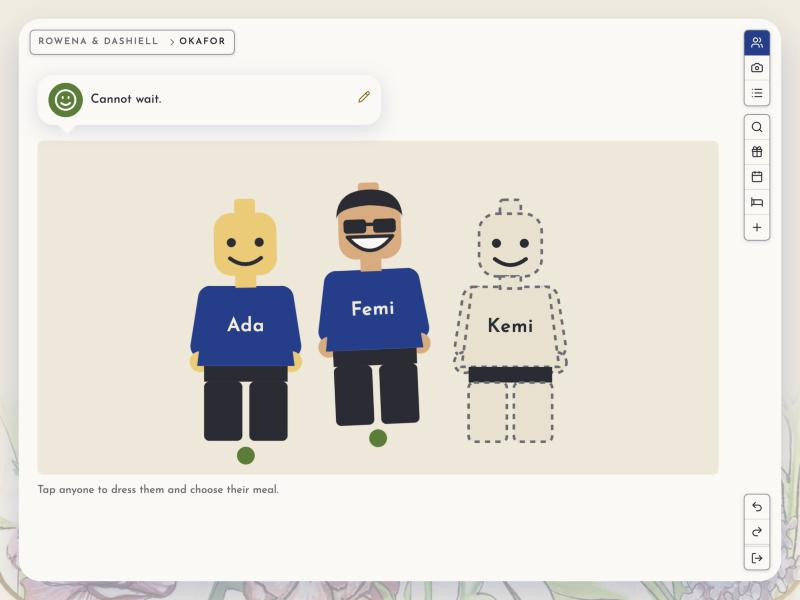
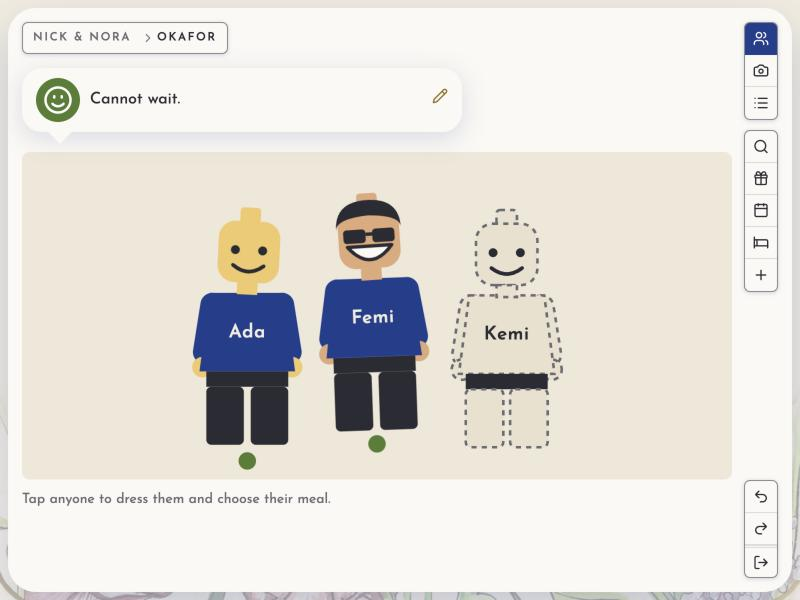
chore(wedding): the couple are Nick and Nora, from The Thin Man; their code is NICK

diff --git a/examples/wedding/server.test.ts b/examples/wedding/server.test.ts
@@ -103,7 +103,7 @@ describe("routes", () => {
     tab.close();
 
     const couple = `session_id=${crypto.randomUUID()}`;
-    const ws = await enter("DASH", couple);
+    const ws = await enter("NICK", couple);
     expect((await post(couple, "not a form")).status).toBe(400);
     const noFile = new FormData();
     noFile.set("file", new File(["hello"], "hello.txt", { type: "text/plain" }));
@@ -135,7 +135,7 @@ describe("the welcome", () => {
     const ws = connect();
     await opened(ws);
     const { page } = await heard(ws);
-    expect(page).toContain("Rowena");
+    expect(page).toContain("Nick");
     expect(page).toContain('data-write=\'{"doc":"session","op":"replace","path":"/code"}\'');
     expect(page).toContain('class="site at-welcome"');
     ws.close();
@@ -181,7 +181,7 @@ describe("a household", () => {
   test("a write is told to the household's tabs and the couple's; another household hears what everyone may, never the household's own", async () => {
     const mine = await enter(code);
     const other = await enter(code); // a second tab, same household
-    const couple = await enter("DASH");
+    const couple = await enter("NICK");
     const stranger = await enter("OKAFOR");
     await at(stranger, "everyone"); // another household sees this one only in the photo of everyone
 
@@ -333,7 +333,7 @@ describe("a household", () => {
     ws.close();
 
     // a household nobody is named on yet: the photo says so
-    const couple = await enter("DASH");
+    const couple = await enter("NICK");
     const nobody = `empty-${Date.now()}@example.com`;
     await send(couple, "board", [{ op: "add", path: "/households/-", value: nobody }]);
     const empty = await enter((await board()).households.find((x) => x.email === nobody)!.code);
@@ -460,8 +460,8 @@ describe("a household", () => {
     const list = await enter(code);
     const everyone = await enter("OKAFOR");
     const elsewhere = await enter("OKAFOR");
-    const couple = await enter("DASH");
-    const family = await enter("DASH");
+    const couple = await enter("NICK");
+    const family = await enter("NICK");
     const welcome = connect(); // no code yet
     await opened(welcome);
     await heard(welcome);
@@ -516,7 +516,7 @@ describe("a household", () => {
 
 describe("the couple", () => {
   test("the couple's code opens the photo of families; a family, the welcome, the four lists and a row of each are drawers; a new one is named in place; a removal asks first, then goes back to its list", async () => {
-    const ws = await enter("DASH");
+    const ws = await enter("NICK");
     expect(pageOf(ws)).toContain('class="bubble couple thing"'); // the welcome, over the photo
     expect(pageOf(ws)).toContain('id="board-photo" data-applet="photo"');
     // the welcome is a "thing": ✎ opens its own drawer, where its picture lives
@@ -572,7 +572,7 @@ describe("the couple", () => {
   });
 
   test("the venues are a page nobody wrote, drawn from their shape: a row each, its drawer, a new one asked for in a modal; a removal asks first, then goes back to the page", async () => {
-    const ws = await enter("DASH");
+    const ws = await enter("NICK");
     expect(pageOf(ws)).toContain(`aria-label="Venues" data-write='{"doc":"session","op":"replace","path":"/page"}' data-value="venues"`); // a tool on the couple's rail
     let html = await at(ws, "venues?row=1");
     expect(html).toContain(`<span class="what">The Mount Without</span>`);
@@ -590,7 +590,7 @@ describe("the couple", () => {
   });
 
   test("the lists are the couple's to keep: a move renumbers, a field takes its kind, a course taken off takes its choices with it", async () => {
-    const ws = await enter("DASH");
+    const ws = await enter("NICK");
     const names = async () => (await board()).courses.map((c) => c.name);
     const before = await names();
     await send(ws, "board", [{ op: "replace", path: "/courses/4/seq", value: 1 }]);
@@ -634,7 +634,7 @@ describe("the couple", () => {
     // two households this test alone owns, so the asks it adds disturb no one else's
     const stamp = Date.now();
     for (const who of ["findme", "other"]) await asCouple([{ op: "add", path: "/households/-", value: { email: `${who}-${stamp}@example.com`, names: `${who} ${stamp}` } }]);
-    const ws = await enter("DASH");
+    const ws = await enter("NICK");
     const households = (await board()).households;
     const matching = households.find((h) => h.email === `findme-${stamp}@example.com`)!;
     const other = households.find((h) => h.email === `other-${stamp}@example.com`)!;
@@ -669,7 +669,7 @@ describe("the couple", () => {
   });
 
   test("a family's drawer: whether each guest is coming and what they chose, and whoever they asked for -- waiting, with the couple's yes or no, or refused; their figures ring in the photo", async () => {
-    const ws = await enter("DASH");
+    const ws = await enter("NICK");
     // under the family's code, a surname they share is said once in each list
     const okafors = await at(ws, `?family=${(await board()).households.find((h) => h.code === "OKAFOR")!.id}`);
     expect(okafors).toContain('<span class="what">Ada</span>');
@@ -695,7 +695,7 @@ describe("the couple", () => {
   });
 
   test("beyond sixteen in the photo, everyone sees the families, one figure each with its count, and a family opens", async () => {
-    const couple = await enter("DASH");
+    const couple = await enter("NICK");
     const email = `crowd-${Date.now()}@example.com`;
     const names = Array.from({ length: 17 }, (_, i) => `Guest${i}`).join(",");
     await send(couple, "board", [{ op: "add", path: "/households/-", value: { email, names } }]);
@@ -723,7 +723,7 @@ describe("the couple", () => {
   });
 
   test("a yes to an ask makes a guest the household sees; the couple's undo takes it back; a household may not reply", async () => {
-    const couple = await enter("DASH");
+    const couple = await enter("NICK");
     const tab = await enter(code);
     await send(tab, "household", [{ op: "add", path: "/asks/-", value: "Friend" }]);
     expect((await heard(couple)).page).toMatch(/\d+ asks? waiting/);
@@ -745,7 +745,7 @@ describe("the couple", () => {
   });
 
   test("an invitation, and its undo, through the wire", async () => {
-    const ws = await enter("DASH");
+    const ws = await enter("NICK");
     const email = `wire-${Date.now()}@example.com`;
     await send(ws, "board", [{ op: "add", path: "/households/-", value: { email, names: "Wire Test", plus_ones: "0" } }]);
     const invited = (await board()).households.find((h) => h.email === email)!;
@@ -758,7 +758,7 @@ describe("the couple", () => {
   });
 
   test("a household's tab whose code stops existing is back at the welcome", async () => {
-    const couple = await enter("DASH");
+    const couple = await enter("NICK");
     const email = `gone-${Date.now()}@example.com`;
     await send(couple, "board", [{ op: "add", path: "/households/-", value: email }]);
     const gone = (await board()).households.find((h) => h.email === email)!;
@@ -858,7 +858,7 @@ describe("undo beside someone else", () => {
 
 describe("the couple keep a family's invitation", () => {
   test("taking a guest off asks first, and goes back to the family's drawer; the email is edited in place", async () => {
-    const ws = await enter("DASH");
+    const ws = await enter("NICK");
     const email = `takeoff-${Date.now()}@example.com`;
     await asCouple([{ op: "add", path: "/households/-", value: { email, names: "Tak Test, Tik Test" } }]);
     const h = (await board()).households.find((x) => x.email === email)!;
@@ -917,7 +917,7 @@ describe("a permit allows what a page offers, and nothing more", () => {
   ];
 
   test("the couple may write what their page offers, and a household none of it", async () => {
-    const couple = await as("DASH");
+    const couple = await as("NICK");
     const ben = await as(code);
     for (const w of COUPLE) expect([w, couple.may("board", w)]).toEqual([w, true]);
     for (const w of COUPLE) expect([w, ben.may("board", w)]).toEqual([w, false]);
@@ -927,7 +927,7 @@ describe("a permit allows what a page offers, and nothing more", () => {
 
   test("a household may write what its page offers, and the couple none of it", async () => {
     const household = await as(code);
-    const couple = await as("DASH");
+    const couple = await as("NICK");
     for (const w of HOUSEHOLD) expect([w, household.may("household", w)]).toEqual([w, true]);
     for (const w of HOUSEHOLD) expect([w, couple.may("household", w)]).toEqual([w, false]);
     household.ws.close();
@@ -935,7 +935,7 @@ describe("a permit allows what a page offers, and nothing more", () => {
   });
 
   test("nobody may remove a field, a row's parent or a dish's order, take back a reply, or uninvite their own guest", async () => {
-    const couple = await as("DASH");
+    const couple = await as("NICK");
     const household = await as(code);
     const fields = COUPLE.filter(([op, path]) => op === "replace" && !path.endsWith("/seq")).map(([, path]): W => ["remove", path]);
     for (const w of [...fields, ...each("replace", "/courses/1/weddings_id", "/gifts/1/weddings_id", "/events/1/weddings_id", "/places/1/weddings_id", "/venues/1/weddings_id", "/courses/1/dishes/1/courses_id", "/courses/1/dishes/1/seq", "/courses/1/drinks/1/seq", "/gifts/1/nope")]) {
@@ -979,7 +979,7 @@ describe("a permit allows what a page offers, and nothing more", () => {
   test("a visit's moves are its own: going somewhere and finding someone tell no other tab, the household's own or anyone's", async () => {
     const mine = await enter(code);
     const theirs = await enter(code);
-    const couple = await enter("DASH");
+    const couple = await enter("NICK");
     await go(mine, [{ op: "replace", path: "/page", value: "?gifts" }]);
     await go(mine, [{ op: "replace", path: "/filter/guests", value: "Tess" }]);
     for (const ws of [theirs, couple]) expect(await heard(ws)).toMatchObject({ patches: [], renders: [] });

diff --git a/examples/wedding/client/app.test.ts b/examples/wedding/client/app.test.ts
@@ -203,7 +203,7 @@ describe("the wedding in a real browser", () => {
     await waitFor(view, `document.querySelector('#code') !== null`, (v) => v === true);
     await view.scrollTo("#code");
     await view.click("#code");
-    await view.type("DASH");
+    await view.type("NICK");
     await view.click("button.gold");
     await waitFor(view, `document.querySelector('#board-photo svg .slot[role="button"]') !== null`, (v) => v === true);
     // a figure never stands still, so the tap is where it stands now
@@ -276,7 +276,7 @@ describe("the wedding in a real browser", () => {
     await using couple = webview({ width: 1280, height: 800 });
     await couple.navigate(urlFor(couple, server.url, "?gifts"));
     await waitFor(couple, `document.querySelector('#code') !== null`, (v) => v === true);
-    await couple.evaluate(`(() => { const i = document.querySelector('#code'); i.value = 'DASH'; i.form.requestSubmit(); })()`);
+    await couple.evaluate(`(() => { const i = document.querySelector('#code'); i.value = 'NICK'; i.form.requestSubmit(); })()`);
     await couple.navigate(urlFor(couple, server.url, "?gifts"));
     await waitFor(couple, `document.querySelector('#gifts-drawer #gift-2 .state')?.textContent ?? ""`, (v) => typeof v === "string" && v.includes(other));
     const fits = await couple.evaluate<{ words: number; inside: boolean }[]>(`(() => {
@@ -304,7 +304,7 @@ describe("the wedding in a real browser", () => {
     await waitFor(view, `document.querySelector('#code') !== null`, (v) => v === true);
     await view.scrollTo("#code");
     await view.click("#code");
-    await view.type("DASH");
+    await view.type("NICK");
     await view.click("button.gold");
     await waitFor(view, `document.querySelector('.bubble.couple') !== null`, (v) => v === true);
 
@@ -349,7 +349,7 @@ describe("the wedding in a real browser", () => {
     await waitFor(view, `document.querySelector('#code') !== null`, (v) => v === true);
     await view.scrollTo("#code");
     await view.click("#code");
-    await view.type("DASH");
+    await view.type("NICK");
     await view.click("button.gold");
     await waitFor(view, `document.querySelector('.bubble.couple') !== null`, (v) => v === true);
     // the welcome is a "thing": its message lives in its own drawer now

diff --git a/examples/wedding/documents/board.test.ts b/examples/wedding/documents/board.test.ts
@@ -22,7 +22,7 @@ const shaped = (...ops: PatchOp[]) => shape(held(), ops, "2026-09-24T12:00:00Z")
 describe("the board", () => {
   test("reads the wedding whole: households by code, each whole, the lists in their order", () => {
     const b = read()!;
-    expect(b.name1).toBe("Rowena");
+    expect(b.name1).toBe("Nick");
     const codes = b.households.map((h) => h.code);
     expect(codes).toEqual([...codes].sort()); // by code
     expect(codes).toEqual(expect.arrayContaining(["BEN", "OKAFOR"]));
@@ -57,7 +57,7 @@ describe("the board", () => {
 describe("what a couple's write becomes", () => {
   test("the wedding's own fields: text kept, blanks and bad dates refused, an optional one cleared by a remove", () => {
     expect(shaped({ op: "replace", path: "/name1", value: " Ro " })).toEqual([{ op: "replace", path: "/weddings/name1", value: "Ro" }]);
-    expect(shaped({ op: "replace", path: "/name1", value: " " }, { op: "remove", path: "/name1" }, { op: "replace", path: "/day", value: "soon" }, { op: "replace", path: "/name1", value: "Rowena" }, { op: "replace", path: "/nope", value: 1 }, { op: "replace", path: "", value: 1 })).toEqual([]);
+    expect(shaped({ op: "replace", path: "/name1", value: " " }, { op: "remove", path: "/name1" }, { op: "replace", path: "/day", value: "soon" }, { op: "replace", path: "/name1", value: "Nick" }, { op: "replace", path: "/nope", value: 1 }, { op: "replace", path: "", value: 1 })).toEqual([]);
     expect(shaped({ op: "replace", path: "/deadline", value: "2027-03-01" }, { op: "remove", path: "/venue" })).toEqual([
       { op: "replace", path: "/weddings/deadline", value: "2027-03-01" },
       { op: "replace", path: "/weddings/venue", value: null },

diff --git a/src/bento.test.ts b/src/bento.test.ts
@@ -400,7 +400,7 @@ describe("the surfaces in a browser", () => {
 
   for (const width of [320, 375]) {
     test(`${width} wide, a trail that wraps: each way back is pressed over a touch, and a press on one never lands on another`, async () => {
-      const trail = [{ label: "Rowena & Dashiell", back: go("a") }, { label: "The Okafors", back: go("b") }, { label: "Where to stay", back: go("c") }, { label: "the market" }];
+      const trail = [{ label: "Nick & Nora", back: go("a") }, { label: "The Okafors", back: go("b") }, { label: "Where to stay", back: go("c") }, { label: "the market" }];
       await using view = await show(framed(b.boxPage(trail, [], [b.cell({ name: "market", opens: go("market") })])), width);
       expect(await view.evaluate<number>(`new Set([...document.querySelectorAll('.crumbs a, .crumbs b')].map((e) => Math.round(e.getBoundingClientRect().top))).size`)).toBeGreaterThan(1); // it wraps
       expect(await pressesElsewhere(view, ".crumbs a")).toEqual([]);

diff --git a/examples/wedding/client/index.html b/examples/wedding/client/index.html
@@ -3,7 +3,7 @@
   <head>
     <meta charset="utf-8" />
     <meta name="viewport" content="width=device-width, initial-scale=1" />
-    <title>Rowena &amp; Dashiell</title>
+    <title>Nick &amp; Nora</title>
     <link rel="preconnect" href="https://fonts.googleapis.com" />
     <link rel="preconnect" href="https://fonts.gstatic.com" crossorigin />
     <link href="https://fonts.googleapis.com/css2?family=Cinzel:wght@500;600&family=Josefin+Sans:wght@400;600&family=Pinyon+Script&display=swap" rel="stylesheet" />

diff --git a/examples/wedding/scripts/measure-render-cost.ts b/examples/wedding/scripts/measure-render-cost.ts
@@ -54,7 +54,7 @@ await nextMessage(sender);
 await nextMessage(sender);
 const audience: [string, WebSocket][] = [
   ["the same household's second tab, on its photo", await enter(mine!.code)],
-  ["the couple, on their photo of families", await enter("DASH")],
+  ["the couple, on their photo of families", await enter("NICK")],
   ["another household, on its photo", await enter(theirs!.code)],
   ["another household, reading everyone", await enter(theirs!.code, "everyone")],
 ];

diff --git a/examples/wedding/stories.ts b/examples/wedding/stories.ts
@@ -40,7 +40,7 @@ const goTo = goToOn("session");
 
 export const stories: Stories = {
   cast: {
-    couple: [session("/code", "DASH")],
+    couple: [session("/code", "NICK")],
     okafors: [session("/code", "OKAFOR")],
     ben: [session("/code", "BEN")],
     benToo: [session("/code", "BEN")], // Ben's household, a second tab

diff --git a/CHANGELOG.md b/CHANGELOG.md
@@ -1915,12 +1915,12 @@ in a real `Bun.WebView`, app.ts's own socket stubbed so no eta server is needed.
 
 ### Added
 
-- `examples/wedding/`: the second example, a site for one wedding (Rowena & Dashiell's, from `apples_pears/examples/wedding`'s brief). A household arrives by the code in its invitation and gives its answer, names its guests and a plus-one, asks to bring someone, dresses each guest's Lego minifigure and gives it an attitude, chooses each guest's dish and drink per course, claims a gift, reads the day and where to stay, and sees the photo of everyone whose household has said yes (a maybe as a ghost, no names until the day). The couple arrive by the wedding's own code and keep everything: the welcome, the households (invite, reply to asks, a yes makes a guest), the courses with their dishes and drinks, the gifts, the events, where to stay, and a picture for any of them. Nothing in `src/` needed a seam it did not already have. What it exercises that chat did not:
+- `examples/wedding/`: the second example, a site for one wedding (Nick & Nora's, from `apples_pears/examples/wedding`'s brief). A household arrives by the code in its invitation and gives its answer, names its guests and a plus-one, asks to bring someone, dresses each guest's Lego minifigure and gives it an attitude, chooses each guest's dish and drink per course, claims a gift, reads the day and where to stay, and sees the photo of everyone whose household has said yes (a maybe as a ghost, no names until the day). The couple arrive by the wedding's own code and keep everything: the welcome, the households (invite, reply to asks, a yes makes a guest), the courses with their dishes and drinks, the gifts, the events, where to stay, and a picture for any of them. Nothing in `src/` needed a seam it did not already have. What it exercises that chat did not:
   - **Three documents, two of them shared.** `session` (a visit: the code, the page, which drawer is open, how a collection is read) is a household's or the couple's own and is never recorded on the ledger -- Undo takes back an answer, never a page. `household` (by code) and `board` (the wedding, by its code) are the ledger's: every op computes its inverse, including whole rows -- a removed course comes back with its dishes and drinks, a removed household with its guests, asks and claims, a guest whose ask was un-yes'd with the minifigure they had built.
   - **Applets given their data as props.** The photo (`applets/photo.ts`: `arrange()` places the crowd in rows by proportion, bombers at the edges; a newcomer walks in; on the day the names come down), the dressing sheet (`applets/dress.ts`: which part is open is the applet's; each choice is one write on one field), the menu (`applets/menu.ts`), and the picture field (`applets/picture-field.ts`: the bytes go to this example's own `/api/picture` route, and the key that comes back is a plain write on the document). The drawings are strings, tested without a browser; their mounting is covered by `client/app.test.ts` in a real one, which bun's coverage does not count (chat's `room-picker` is not measured at all, for the same reason).
   - **A permit surface as a table of paths and ops** (`concepts/household.ts`, `concepts/board.ts`), with the deadline locking answers, coming and choices, and a plus-one allowed only while the invitation owes one.
   - **Everyone re-renders on any domain write** (`concepts/presence.ts`): a claim takes a gift from every other household; an answer moves figures into the photo every code watches. The patch itself echoes only to those who see the document.
-  - **Its own tables share the kernel's database** with chat's, so none is named `sessions`: a visit is a `visit`. Seed data (`migrations/0002_seed.sql`) with the codes `DASH` (the couple), `OKAFOR` and `BEN`. `bun run dev:wedding` serves it on port 3001; `.claude/launch.json` has a `wedding` entry.
+  - **Its own tables share the kernel's database** with chat's, so none is named `sessions`: a visit is a `visit`. Seed data (`migrations/0002_seed.sql`) with the codes `NICK` (the couple), `OKAFOR` and `BEN`. `bun run dev:wedding` serves it on port 3001; `.claude/launch.json` has a `wedding` entry.
 
 - `.claude/skills/eta-app/`: a skill for building an example on eta -- the checklist (`SKILL.md`) and the full reference (`reference.md`: the `Example` and `Concept` contracts, `read`/`patch` and inverses, the ledger and undo, migrations, the wire, applets, CLI verbs, and when it looks like `src/` needs touching). `CLAUDE.md` points at it.
 - `change-request.md`: six things the wedding asked of the kernel, none of which blocked it -- who sees a document (so the kernel does the echo and re-render), forms that edit (write on blur, one path per field), the page in the URL, coverage that counts applets, a word for a document that is off the ledger, and the picture route staying the example's.

diff --git a/README.md b/README.md
@@ -42,7 +42,7 @@ http://localhost:3000. That is chat: give a name, name a room, say something. Op
 as someone else and you each see the other speak. Undo, bottom right, takes back your own last
 write.
 
-- `bun run dev:wedding` (port 3001): a site for one wedding, the picture above. Codes: `DASH` for
+- `bun run dev:wedding` (port 3001): a site for one wedding, the picture above. Codes: `NICK` for
   the couple, `OKAFOR` and `BEN` for two households.
 - `bun run dev:leave` (port 3004): a team's leave on one calendar. Drag across days to ask. Sign in
   as `ann@leave.example`, `bo@leave.example` or `mo@leave.example` (the manager); each password is

diff --git a/docs/stories.md b/docs/stories.md
@@ -32,7 +32,7 @@ where. Three from the wedding's `stories.ts`:
 ```ts
 // The cast: a session each, and the writes that put it where the stories find it.
 cast: {
-  couple:  [session("/code", "DASH")],
+  couple:  [session("/code", "NICK")],
   okafors: [session("/code", "OKAFOR")],
   benToo:  [session("/code", "BEN")], // Ben's household, a second tab
   stranger: [],
